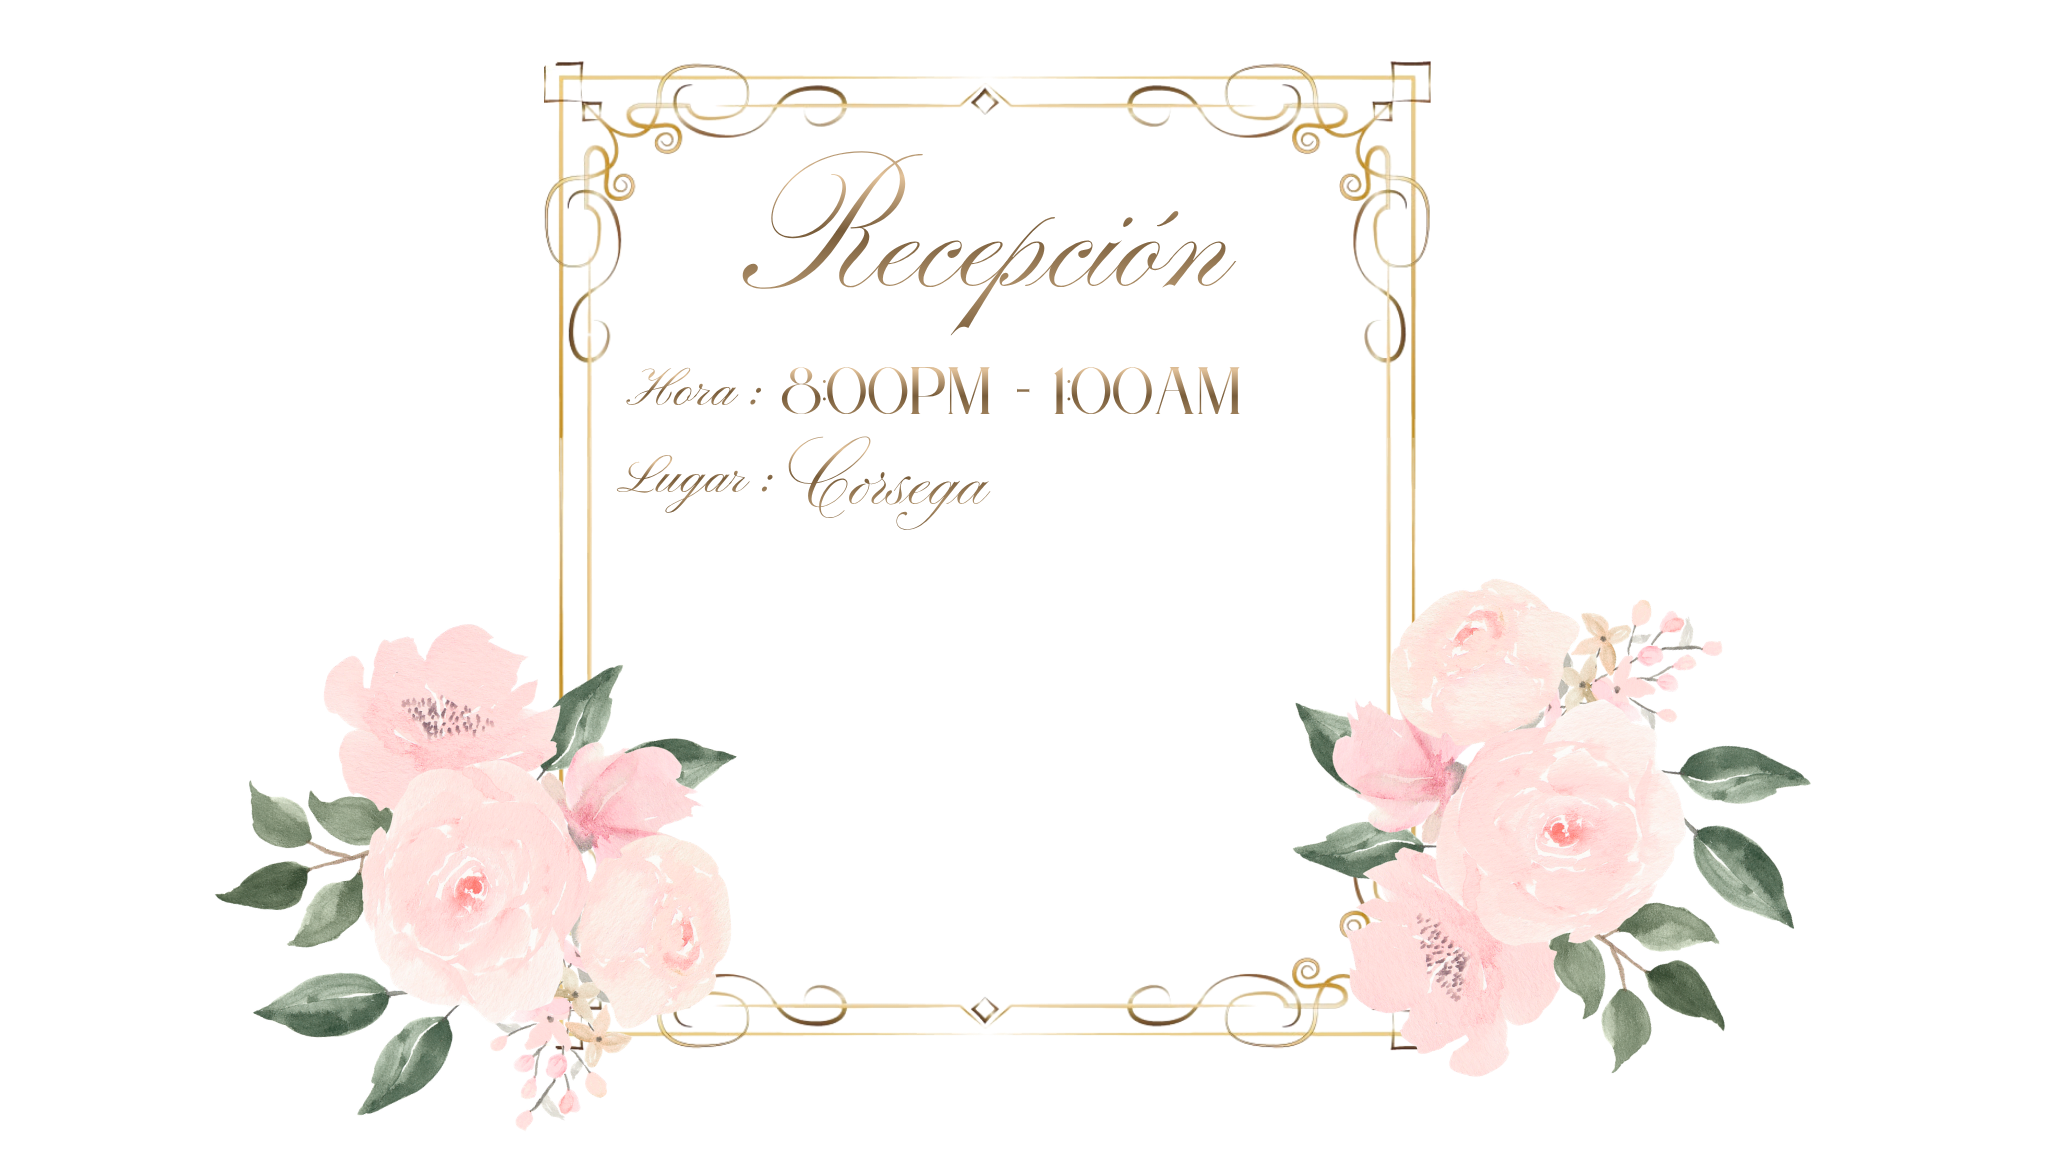
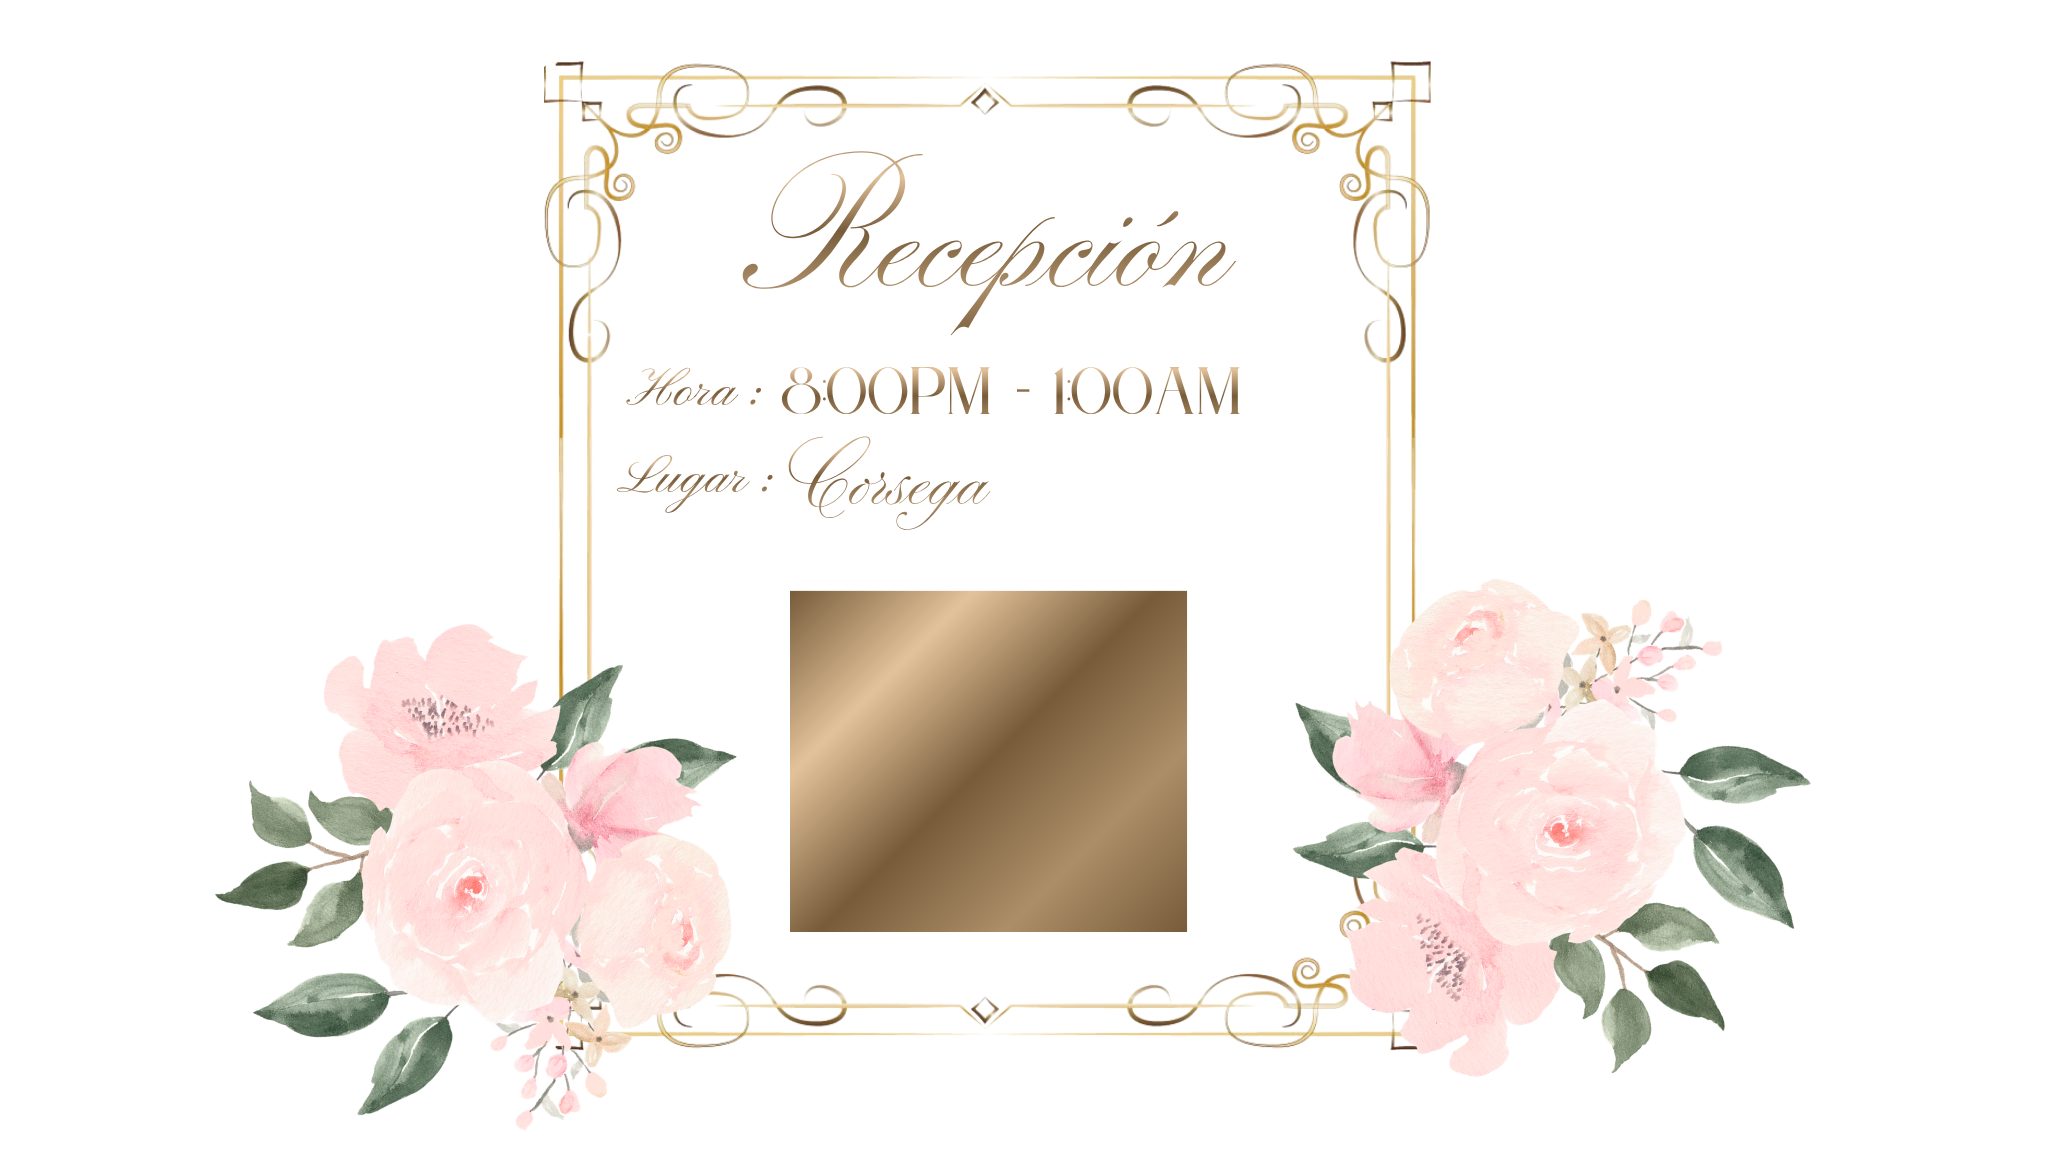
Lienzo base de invitacipn XV validado en el marco

Changed region(s): [[0.375, 0.5, 0.5938, 0.8125]]

diff --git a/style.css b/style.css
@@ -27,13 +27,32 @@ body {
 }
 
 /* --- IMÁGENES GENÉRICAS --- */
-.img-bloque, .img-fecha, .img-renata1 {
+.img-bloque{
     width: 100%;
     height: auto;
     display: block;
     margin: 0;
     border: none;
     vertical-align: top;
+}
+.img-renata1 {
+    width: 180%; /* ¡Hazla gigante! Súbelo a 150% o bájalo si lo necesitas */
+    height: auto;
+    display: block;
+    position: relative;
+    z-index: 5;
+    margin-top: 20%; /* Para separarla de lo de arriba si es necesario */
+    left: 45%; 
+    transform: translateX(-45%);
+}
+.img-fecha {
+    width: 110%; 
+    height: auto;
+    display: block;
+    margin:  -10% auto;
+    position: relative;
+    z-index: 5;
+    top: 30px;
 }
 
 .img-corona {
@@ -113,36 +132,24 @@ body {
 .mari-muro2-abierta { width: 22%; top: 20%; right: 15%; }
 .mari-muro2-volando-espejo { width: 18%; top: 55%; left: 15%; transform: scaleX(-1) rotate(-10deg); }
 
-/* --- MARCO DORADO DEL MAPA (18.png) --- */
-.fondo-googleMaps {
-    position: absolute;
-    z-index: 24; 
-    width: 80%;
-    top: 38%;
-    left: 10%;
-    pointer-events: none;
-}
-
-.fondo-googleMaps2 {
-    position: absolute;
-    z-index: 24; 
-    width: 80%;
-    top: 28%; /* Un poco más arriba para que encaje con la imagen 9 */
-    left: 10%;
-    pointer-events: none;
-}
-
 /* --- LOS MAPAS DE GOOGLE (Ahora están domados) --- */
 .mapa-interactivo {
     position: absolute;
-    z-index: 23; /* ¡Detrás del marco dorado! */
-    width: 70%; /* 10% más chico que el marco */
-    height: 220px; 
-    left: 15%; /* Centrado dentro del marco */
-    border: none;
-    border-radius: 8px; /* Bordes redondos para que no salgan picos */
+    z-index: 26; /* ¡Detrás del marco dorado! */
+    width: 28%; /* 10% más chico que el marco */
+    height: 28%; 
+    border: 15% none;
 }
 
 /* Ajustes finos para que encajen en el hueco del dorado */
-.mapa-misa { top: 41%; }
-.mapa-recepcion { top: 31%; }
+.mapa-misa {
+    top: 60%;
+    left: 54%;
+    transform: translateX(-50%);
+}
+
+.mapa-recepcion { 
+    top: 59.25%;
+    left: 47.25%;
+    transform: translateX(-50%);
+}

diff --git a/index.html b/index.html
@@ -32,13 +32,13 @@
         </div>
 
         <img src="assets/Xv/17.png" alt="Parte 16" class="img-renata1">
+        
 
         <div class="seccion-relativa">
             <img src="assets/Xv/8.png" alt="Parte 8" class="img-mensaje3">
             
             <iframe src="https://www.google.com/maps/embed?pb=!1m18!1m12!1m3!1d3486.643806283733!2d-110.97028122452391!3d29.08670577551522!2m3!1f0!2f0!3f0!3m2!1i1024!2i768!4f13.1!3m3!1m2!1s0x86ce842274e2d679%3A0x3db108a307663f13!2sParroquia%20Santa%20Eduwiges!5e0!3m2!1ses-419!2smx!4v1782767098361!5m2!1ses-419!2smx" class="mapa-interactivo mapa-misa" loading="lazy" referrerpolicy="strict-origin-when-cross-origin"></iframe>
             
-            <img src="assets/Xv/18.png" alt="Flor 16" class="fondo-googleMaps">
             <img src="assets/Xv/2.png" alt="Mariposa Abierta" class="mariposa mari-muro1-abierta">
             <img src="assets/Xv/3.png" alt="Mariposa Volando" class="mariposa mari-muro1-volando">
         </div>
@@ -48,7 +48,6 @@
             
             <iframe src="https://www.google.com/maps/embed?pb=!1m18!1m12!1m3!1d3486.643806283733!2d-110.97028122452391!3d29.08670577551522!2m3!1f0!2f0!3f0!3m2!1i1024!2i768!4f13.1!3m3!1m2!1s0x86ce842274e2d679!2sParroquia!5e0!3m2!1ses-419!2smx!4v1782767098361!5m2!1ses-419!2smx" class="mapa-interactivo mapa-recepcion" loading="lazy" referrerpolicy="strict-origin-when-cross-origin"></iframe>
             
-            <img src="assets/Xv/18.png" alt="Flor 16" class="fondo-googleMaps2">
             <img src="assets/Xv/2.png" alt="Mariposa Abierta 2" class="mariposa mari-muro2-abierta">
             <img src="assets/Xv/3.png" alt="Mariposa Volando Espejo" class="mariposa mari-muro2-volando-espejo">
         </div>